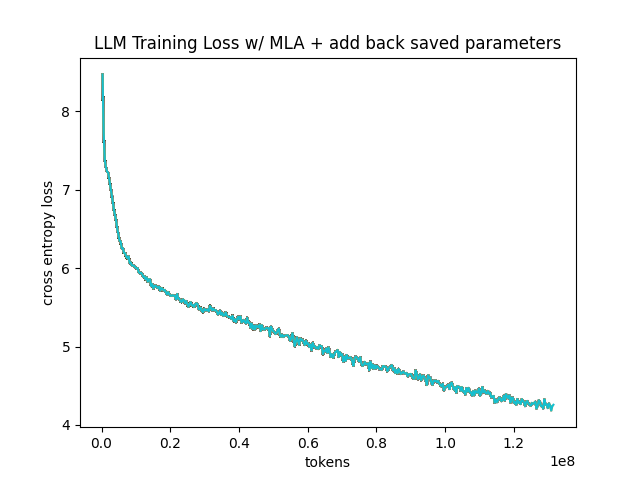
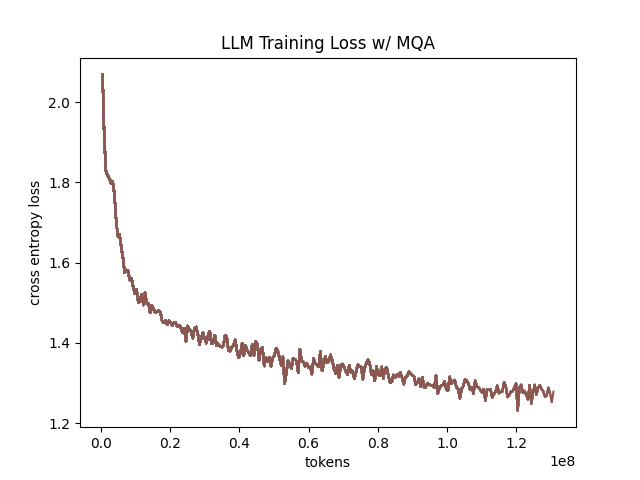
figures done

diff --git a/final_project/train_model.py b/final_project/train_model.py
@@ -25,10 +25,10 @@ def cosine_with_warmup_lr_scheduler(opt, total_steps, warmup_steps):
 # Helper function to plot a loss curve every few batches
 def plot_loss_curve(x, y):
     plt.plot(x, y)
-    plt.title("LLM Training Loss w/ MLA - Larger Model")
+    plt.title("LLM Training Loss w/ MQA - with RoPE")
     plt.xlabel("tokens")
     plt.ylabel("cross entropy loss")
-    plt.savefig("./figures/training_curve.png")
+    plt.savefig("./figures/mqa_rope_training_curve.png")
 
 def train():
     # using nvidia rtx 3090
@@ -38,7 +38,7 @@ def train():
     #                  max_seq_len=1024, use_mla=True, use_mqa=False)
 
     model = GPTModel(d_model=512, n_heads=16, layers=8, vocab_size=10000,
-                     max_seq_len=1024, use_rope=True, use_mla=True)
+                     max_seq_len=1024, use_rope=True, use_mqa=True)
     param_count = sum(p.numel() for p in model.parameters())
     print("Model has", param_count, "parameters.")
 

diff --git a/final_project/modeling/attention/mla.py b/final_project/modeling/attention/mla.py
@@ -187,6 +187,7 @@ class MLA(torch.nn.Module):
 
         # https://github.com/lucidrains/rotary-embedding-torch/tree/main
         # visualize emb later to make sure it looks ok
+        # we do self.dh here instead of self.qk_rope_dim because its better
         freqs = 1.0 / (rope_theta ** (torch.arange(0, self.dh, 2).float() / self.dh))
         emb = torch.outer(torch.arange(self.max_seq_len).float(), freqs)
         cos_cached = emb.cos()[None, None, :, :]
